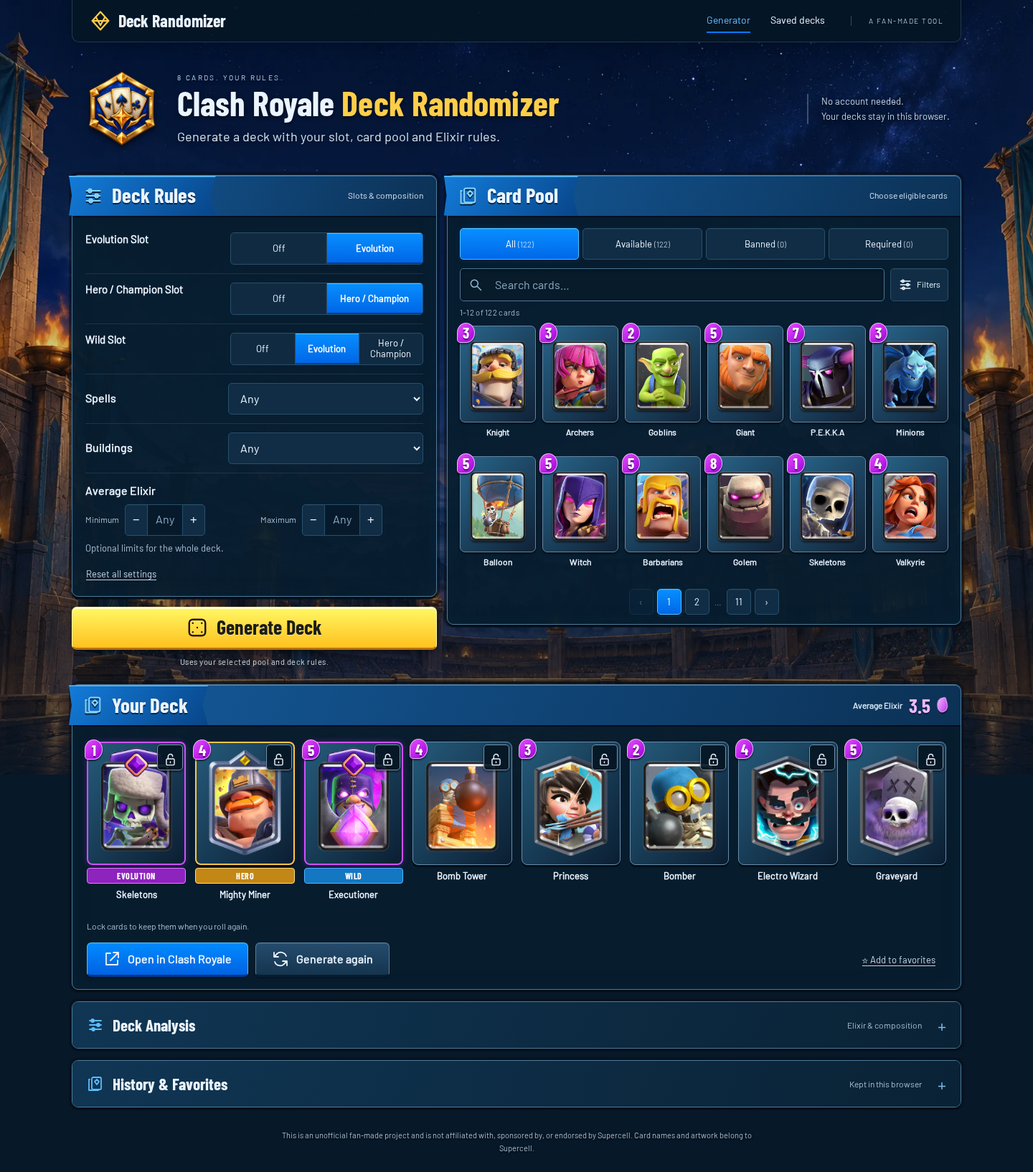
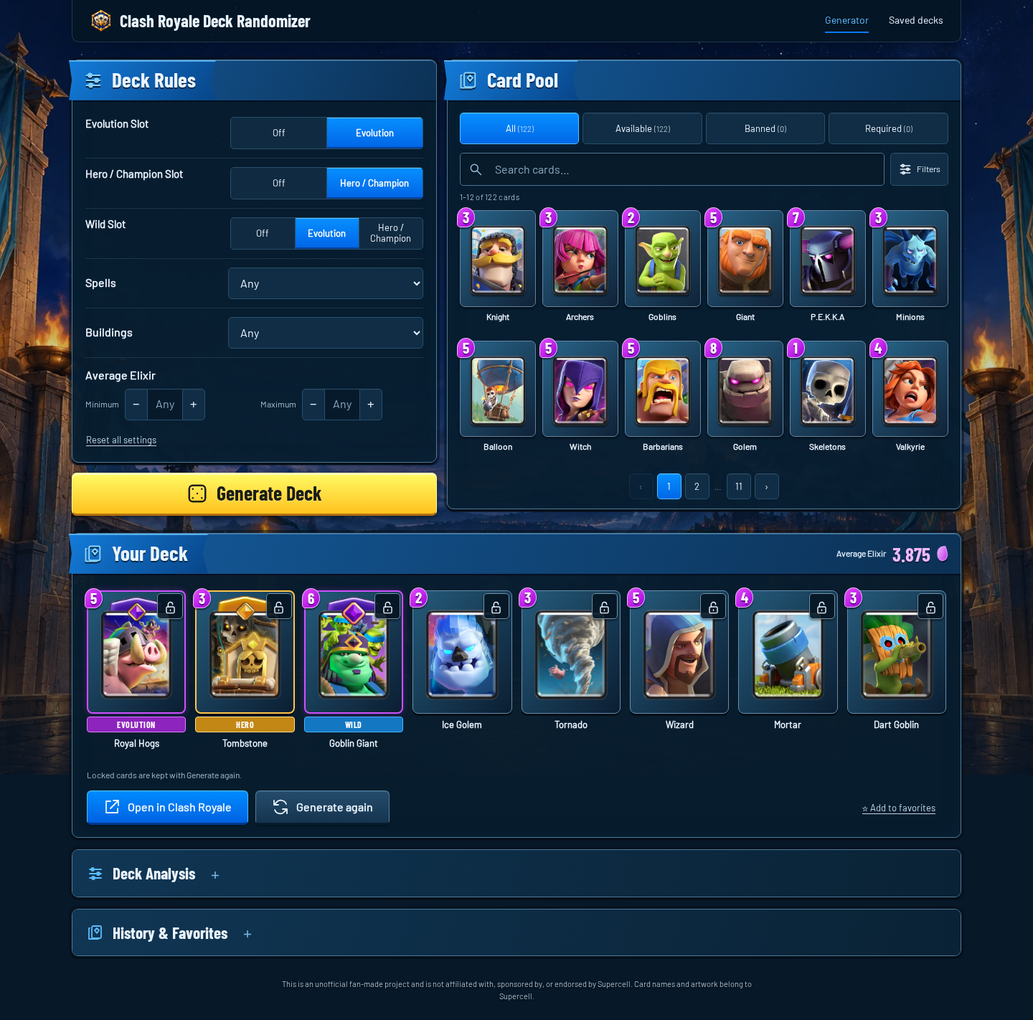
Remove promotional UI copy and compact the app header

diff --git a/index.html b/index.html
@@ -7,17 +7,16 @@
 <link rel="stylesheet" href="./static/arena.css"><script type="module" src="./static/app.js"></script>
 </head><body class="arena-app"><svg xmlns="http://www.w3.org/2000/svg" class="svg-defs" aria-hidden="true"><symbol id="i-diamond" viewBox="0 0 24 24"><path d="m12 2 9 10-9 10L3 12Z"/><path d="m7 8 5 9 5-9M3 12h18"/></symbol><symbol id="i-rules" viewBox="0 0 24 24"><path d="M4 6h16M4 12h16M4 18h16"/><circle cx="8" cy="6" r="2"/><circle cx="16" cy="12" r="2"/><circle cx="9" cy="18" r="2"/></symbol><symbol id="i-cards" viewBox="0 0 24 24"><rect x="7" y="3" width="13" height="17" rx="2"/><path d="M4 6H3v15h13M11 9l3-3 3 3-3 4Z"/></symbol><symbol id="i-search" viewBox="0 0 24 24"><circle cx="10" cy="10" r="6"/><path d="m15 15 6 6"/></symbol><symbol id="i-dice" viewBox="0 0 24 24"><rect x="3" y="3" width="18" height="18" rx="4"/><path d="M7 7h.01M17 7h.01M12 12h.01M7 17h.01M17 17h.01"/></symbol><symbol id="i-open" viewBox="0 0 24 24"><path d="M14 3h7v7M21 3l-11 11M10 4H4v16h16v-6"/></symbol><symbol id="i-refresh" viewBox="0 0 24 24"><path d="M20 8a8 8 0 0 0-14-2L3 9m0-6v6h6m-5 7a8 8 0 0 0 14 2l3-3m0 6v-6h-6"/></symbol><symbol id="i-lock" viewBox="0 0 24 24"><rect x="5" y="10" width="14" height="11" rx="2"/><path d="M8 10V6a4 4 0 0 1 8 0v4m-4 5v2"/></symbol><symbol id="i-unlock" viewBox="0 0 24 24"><rect x="5" y="10" width="14" height="11" rx="2"/><path d="M8 10V6a4 4 0 0 1 8 0m-4 9v2"/></symbol><symbol id="i-chevron" viewBox="0 0 24 24"><path d="m8 4 8 8-8 8"/></symbol></svg>
 <a class="skip-link" href="#generator">Skip to generator</a>
-<nav class="topbar" aria-label="Main navigation"><a class="brand" href="#generator"><svg class="icon" aria-hidden="true"><use href="#i-diamond"></use></svg><span>Deck Randomizer</span></a><div class="nav-links"><a href="#generator" aria-current="page">Generator</a><a href="#saved-decks">Saved decks</a></div><span class="fan-label">A FAN-MADE TOOL</span></nav>
+<nav class="topbar" aria-label="Main navigation"><a class="brand" href="#generator"><img src="./static/assets/emblem.png" alt="" width="32" height="32"><h1>Clash Royale Deck Randomizer</h1></a><div class="nav-links"><a href="#generator" aria-current="page">Generator</a><a href="#saved-decks">Saved decks</a></div></nav>
 <main class="container">
-<header class="hero"><img class="hero-emblem" src="./static/assets/emblem.png" alt="" width="112" height="112"><div><p class="eyebrow">8 CARDS. YOUR RULES.</p><h1>Clash Royale<br> <span>Deck Randomizer</span></h1><p class="hero-copy">Generate a deck with your slot, card pool and Elixir rules.</p></div><p class="hero-note">No account needed.<br>Your decks stay in this browser.</p></header>
 <form class="generator-layout" id="generator" data-generator-form>
-<section class="panel rules-panel" aria-labelledby="rules-heading"><div class="panel-heading"><h2 id="rules-heading"><svg class="icon" aria-hidden="true"><use href="#i-rules"></use></svg>Deck Rules</h2><span>Slots &amp; composition</span></div><div class="rules-body"><fieldset class="rule-row"><legend>Evolution Slot</legend><div class="segmented-options"><label class="segment-option"><input type="radio" name="evolution_slot_enabled" value="off"><span>Off</span></label><label class="segment-option"><input type="radio" name="evolution_slot_enabled" value="on" checked><span>Evolution</span></label></div></fieldset><fieldset class="rule-row"><legend>Hero / Champion Slot</legend><div class="segmented-options"><label class="segment-option"><input type="radio" name="hero_slot_enabled" value="off"><span>Off</span></label><label class="segment-option"><input type="radio" name="hero_slot_enabled" value="on" checked><span>Hero / Champion</span></label></div></fieldset><fieldset class="rule-row"><legend>Wild Slot</legend><div class="segmented-options"><label class="segment-option"><input type="radio" name="wild_slot_mode" value="off"><span>Off</span></label><label class="segment-option"><input type="radio" name="wild_slot_mode" value="evolution" checked><span>Evolution</span></label><label class="segment-option"><input type="radio" name="wild_slot_mode" value="hero_champion"><span>Hero / Champion</span></label></div></fieldset><div class="rule-row"><label for="spell_count">Spells</label><select id="spell_count" name="spell_count" data-count-select><option value="any">Any</option></select></div><div class="rule-row"><label for="building_count">Buildings</label><select id="building_count" name="building_count" data-count-select><option value="any">Any</option></select></div><div class="elixir-rule"><h3>Average Elixir</h3><div class="elixir-inputs"><div class="elixir-field"><label for="min_average_elixir">Minimum</label><div class="stepper"><button type="button" data-step="-1" data-for="min_average_elixir" aria-label="Decrease minimum average Elixir">−</button><input id="min_average_elixir" name="min_average_elixir" type="number" min="0.1" step="0.1" placeholder="Any" aria-label="Deck average elixir — minimum"><button type="button" data-step="1" data-for="min_average_elixir" aria-label="Increase minimum average Elixir">+</button></div></div><div class="elixir-field"><label for="max_average_elixir">Maximum</label><div class="stepper"><button type="button" data-step="-1" data-for="max_average_elixir" aria-label="Decrease maximum average Elixir">−</button><input id="max_average_elixir" name="max_average_elixir" type="number" min="0.1" step="0.1" placeholder="Any" aria-label="Deck average elixir — maximum"><button type="button" data-step="1" data-for="max_average_elixir" aria-label="Increase maximum average Elixir">+</button></div></div></div><p class="muted">Optional limits for the whole deck.</p></div><button type="button" class="text-button reset-button" data-reset-settings>Reset all settings</button></div></section>
-<section class="panel pool-panel" aria-labelledby="card-pool-heading" data-card-pool data-context="all" data-available-mode="all"><div class="panel-heading"><h2 id="card-pool-heading"><svg class="icon" aria-hidden="true"><use href="#i-cards"></use></svg>Card Pool</h2><span>Choose eligible cards</span></div><div class="pool-body">
+<section class="panel rules-panel" aria-labelledby="rules-heading"><div class="panel-heading"><h2 id="rules-heading"><svg class="icon" aria-hidden="true"><use href="#i-rules"></use></svg>Deck Rules</h2></div><div class="rules-body"><fieldset class="rule-row"><legend>Evolution Slot</legend><div class="segmented-options"><label class="segment-option"><input type="radio" name="evolution_slot_enabled" value="off"><span>Off</span></label><label class="segment-option"><input type="radio" name="evolution_slot_enabled" value="on" checked><span>Evolution</span></label></div></fieldset><fieldset class="rule-row"><legend>Hero / Champion Slot</legend><div class="segmented-options"><label class="segment-option"><input type="radio" name="hero_slot_enabled" value="off"><span>Off</span></label><label class="segment-option"><input type="radio" name="hero_slot_enabled" value="on" checked><span>Hero / Champion</span></label></div></fieldset><fieldset class="rule-row"><legend>Wild Slot</legend><div class="segmented-options"><label class="segment-option"><input type="radio" name="wild_slot_mode" value="off"><span>Off</span></label><label class="segment-option"><input type="radio" name="wild_slot_mode" value="evolution" checked><span>Evolution</span></label><label class="segment-option"><input type="radio" name="wild_slot_mode" value="hero_champion"><span>Hero / Champion</span></label></div></fieldset><div class="rule-row"><label for="spell_count">Spells</label><select id="spell_count" name="spell_count" data-count-select><option value="any">Any</option></select></div><div class="rule-row"><label for="building_count">Buildings</label><select id="building_count" name="building_count" data-count-select><option value="any">Any</option></select></div><div class="elixir-rule"><h3>Average Elixir</h3><div class="elixir-inputs"><div class="elixir-field"><label for="min_average_elixir">Minimum</label><div class="stepper"><button type="button" data-step="-1" data-for="min_average_elixir" aria-label="Decrease minimum average Elixir">−</button><input id="min_average_elixir" name="min_average_elixir" type="number" min="0.1" step="0.1" placeholder="Any" aria-label="Deck average elixir — minimum"><button type="button" data-step="1" data-for="min_average_elixir" aria-label="Increase minimum average Elixir">+</button></div></div><div class="elixir-field"><label for="max_average_elixir">Maximum</label><div class="stepper"><button type="button" data-step="-1" data-for="max_average_elixir" aria-label="Decrease maximum average Elixir">−</button><input id="max_average_elixir" name="max_average_elixir" type="number" min="0.1" step="0.1" placeholder="Any" aria-label="Deck average elixir — maximum"><button type="button" data-step="1" data-for="max_average_elixir" aria-label="Increase maximum average Elixir">+</button></div></div></div></div><button type="button" class="text-button reset-button" data-reset-settings>Reset all settings</button></div></section>
+<section class="panel pool-panel" aria-labelledby="card-pool-heading" data-card-pool data-context="all" data-available-mode="all"><div class="panel-heading"><h2 id="card-pool-heading"><svg class="icon" aria-hidden="true"><use href="#i-cards"></use></svg>Card Pool</h2></div><div class="pool-body">
 <div class="picker-contexts" role="group" aria-label="Card selection list"><button type="button" class="is-active" data-picker-context="all" aria-pressed="true">All <span data-catalog-count>…</span></button><button type="button" data-picker-context="available" aria-pressed="false">Available <span data-available-label>…</span></button><button type="button" data-picker-context="banned" aria-pressed="false">Banned <span data-selected-count="banned">0</span></button><button type="button" data-picker-context="required" aria-pressed="false">Required <span data-selected-count="required">0</span></button></div>
 <div class="pool-toolbar"><div class="picker-search-field"><svg class="icon" aria-hidden="true"><use href="#i-search"></use></svg><label for="card-search" class="visually-hidden">Search cards</label><input id="card-search" type="search" placeholder="Search cards…" autocomplete="off" data-card-search></div><button class="filter-button" type="button" aria-label="Filters" data-toggle-filters aria-expanded="false" aria-controls="card-filters"><svg class="icon" aria-hidden="true"><use href="#i-rules"></use></svg><span>Filters</span><span class="filter-dot" data-filter-dot hidden></span></button></div>
 <div id="card-filters" class="filter-panel" hidden>                    <section class="constraint-group" aria-labelledby="card-filters-heading" data-card-filters>
                         <div class="section-heading"><h2 id="card-filters-heading">Card Filters</h2><button type="button" class="text-button" data-clear-filters>Clear filters</button></div>
-                        <p class="constraint-help">Narrow the available card pool. Selected filters work together.</p>
+
                         <fieldset class="filter-fieldset">
                             <legend>Rarity <span>(leave empty for all)</span></legend>
                             <div class="filter-options">
@@ -37,20 +36,20 @@
                             <label><input type="checkbox" name="filter_hero_only"> Hero cards only</label>
                             <label><input type="checkbox" name="filter_exclude_champions"> Exclude Champions</label>
                         </div>
-                        <p class="filter-result"><strong data-filter-count>All</strong> cards match these filters.</p>
+                        <p class="filter-result">Matching cards: <strong data-filter-count>All</strong></p>
                     </section>
 </div>
-<div class="pool-editing" data-pool-editing hidden><p class="picker-context-help" data-picker-context-help></p><fieldset class="available-mode"><legend class="visually-hidden">Available cards</legend><div class="segmented-options"><label class="segment-option"><input type="radio" name="available_mode" value="all" checked><span>All cards</span></label><label class="segment-option"><input type="radio" name="available_mode" value="custom"><span>Custom selection</span></label></div></fieldset><p class="available-all-message" data-available-all-message>All cards are available. Choose Custom selection to edit.</p><div class="available-actions" data-available-actions><button type="button" data-select-all-available>Select all</button><button type="button" data-clear-available>Clear</button></div>
+<div class="pool-editing" data-pool-editing hidden><fieldset class="available-mode"><legend class="visually-hidden">Available cards</legend><div class="segmented-options"><label class="segment-option"><input type="radio" name="available_mode" value="all" checked><span>All cards</span></label><label class="segment-option"><input type="radio" name="available_mode" value="custom"><span>Custom selection</span></label></div></fieldset><p class="available-all-message" data-available-all-message>Choose Custom selection to edit cards.</p><div class="available-actions" data-available-actions><button type="button" data-select-all-available>Select all</button><button type="button" data-clear-available>Clear</button></div>
 <div class="selected-card-groups"><div data-selected-pool="available" hidden><div class="selected-chips" data-selected-chips="available"></div></div><div data-selected-pool="banned" hidden><div class="selected-chips" data-selected-chips="banned"></div></div><div data-selected-pool="required" hidden><div class="selected-chips" data-selected-chips="required"></div></div></div></div>
-<div class="pool-status" data-pool-status role="status">Loading the card catalog…</div><div class="card-picker-grid" data-card-picker aria-label="Card catalog"></div><p class="pool-empty" data-pool-empty hidden>No cards match that search. Try another name.</p><nav class="pagination" data-pagination aria-label="Card pages"></nav>
+<div class="pool-status" data-pool-status role="status">Loading cards…</div><div class="card-picker-grid" data-card-picker aria-label="Card catalog"></div><p class="pool-empty" data-pool-empty hidden>No matching cards.</p><nav class="pagination" data-pagination aria-label="Card pages"></nav>
 </div></section>
-<div class="generate-area"><button type="submit" class="generate-button" disabled><svg class="icon" aria-hidden="true"><use href="#i-dice"></use></svg>Generate Deck</button><p class="generate-caption">Uses your selected pool and deck rules.</p></div>
+<div class="generate-area"><button type="submit" class="generate-button" disabled><svg class="icon" aria-hidden="true"><use href="#i-dice"></use></svg>Generate Deck</button></div>
 <p class="error-message" role="alert" data-error hidden></p>
 </form>
-<section class="panel deck-section" data-result aria-labelledby="deck-heading"><div class="panel-heading"><h2 id="deck-heading"><svg class="icon" aria-hidden="true"><use href="#i-cards"></use></svg>Your Deck</h2><span class="deck-average">Average Elixir <strong data-average>—</strong><span class="elixir-drop" aria-hidden="true"></span></span></div><div class="deck-body"><p class="muted" data-deck-empty>Your next deck is waiting. Set your rules and roll the dice.</p><div class="deck" data-deck><div class="empty-card" aria-label="Empty slot 1"><svg class="icon" aria-hidden="true"><use href="#i-diamond"></use></svg><span>EVOLUTION</span></div><div class="empty-card" aria-label="Empty slot 2"><svg class="icon" aria-hidden="true"><use href="#i-diamond"></use></svg><span>HERO</span></div><div class="empty-card" aria-label="Empty slot 3"><svg class="icon" aria-hidden="true"><use href="#i-diamond"></use></svg><span>WILD</span></div><div class="empty-card" aria-label="Empty slot 4"><svg class="icon" aria-hidden="true"><use href="#i-diamond"></use></svg><span>4</span></div><div class="empty-card" aria-label="Empty slot 5"><svg class="icon" aria-hidden="true"><use href="#i-diamond"></use></svg><span>5</span></div><div class="empty-card" aria-label="Empty slot 6"><svg class="icon" aria-hidden="true"><use href="#i-diamond"></use></svg><span>6</span></div><div class="empty-card" aria-label="Empty slot 7"><svg class="icon" aria-hidden="true"><use href="#i-diamond"></use></svg><span>7</span></div><div class="empty-card" aria-label="Empty slot 8"><svg class="icon" aria-hidden="true"><use href="#i-diamond"></use></svg><span>8</span></div></div>
-<p class="lock-help" data-has-deck hidden>Lock cards to keep them when you roll again.</p><p class="wild-form-notice" data-wild-notice hidden></p><div class="result-actions" data-has-deck hidden><a class="open-game-button" data-deck-link><svg class="icon" aria-hidden="true"><use href="#i-open"></use></svg>Open in Clash Royale</a><button type="button" class="secondary-button" data-generate-again><svg class="icon" aria-hidden="true"><use href="#i-refresh"></use></svg>Generate again</button><button type="button" class="text-button" data-favorite-current aria-pressed="false">☆ Add to favorites</button></div></div></section>
-<details class="panel analysis-section" data-analysis hidden><summary><svg class="icon" aria-hidden="true"><use href="#i-rules"></use></svg>Deck Analysis <span>Elixir &amp; composition</span></summary><div class="details-body"><div class="result-summary" aria-label="Deck result summary"><section><h3>Special Slots</h3><dl data-slot-summary></dl></section><section><h3>Deck</h3><dl data-deck-summary></dl></section></div><div class="analysis-panel"><section><h3>Elixir Distribution</h3><div class="elixir-chart" data-elixir-chart></div></section><section><h3>Deck Insights</h3><ul class="deck-insights" data-deck-insights></ul></section></div></div></details>
-<details class="panel saved-section" id="saved-decks" data-saved-section><summary><svg class="icon" aria-hidden="true"><use href="#i-cards"></use></svg>History &amp; Favorites <span>Kept in this browser</span></summary><div class="details-body">            <div class="saved-heading"><div><h3>Your saved decks</h3><p>Your decks are stored only in this browser.</p></div><button type="button" class="text-button" data-clear-history>Clear history</button></div>
+<section class="panel deck-section" data-result aria-labelledby="deck-heading"><div class="panel-heading"><h2 id="deck-heading"><svg class="icon" aria-hidden="true"><use href="#i-cards"></use></svg>Your Deck</h2><span class="deck-average">Average Elixir <strong data-average>—</strong><span class="elixir-drop" aria-hidden="true"></span></span></div><div class="deck-body"><div class="deck" data-deck><div class="empty-card" aria-label="Empty slot 1"><svg class="icon" aria-hidden="true"><use href="#i-diamond"></use></svg><span>EVOLUTION</span></div><div class="empty-card" aria-label="Empty slot 2"><svg class="icon" aria-hidden="true"><use href="#i-diamond"></use></svg><span>HERO</span></div><div class="empty-card" aria-label="Empty slot 3"><svg class="icon" aria-hidden="true"><use href="#i-diamond"></use></svg><span>WILD</span></div><div class="empty-card" aria-label="Empty slot 4"><svg class="icon" aria-hidden="true"><use href="#i-diamond"></use></svg><span>4</span></div><div class="empty-card" aria-label="Empty slot 5"><svg class="icon" aria-hidden="true"><use href="#i-diamond"></use></svg><span>5</span></div><div class="empty-card" aria-label="Empty slot 6"><svg class="icon" aria-hidden="true"><use href="#i-diamond"></use></svg><span>6</span></div><div class="empty-card" aria-label="Empty slot 7"><svg class="icon" aria-hidden="true"><use href="#i-diamond"></use></svg><span>7</span></div><div class="empty-card" aria-label="Empty slot 8"><svg class="icon" aria-hidden="true"><use href="#i-diamond"></use></svg><span>8</span></div></div>
+<p class="lock-help" data-has-deck hidden>Locked cards are kept with Generate again.</p><p class="wild-form-notice" data-wild-notice hidden></p><div class="result-actions" data-has-deck hidden><a class="open-game-button" data-deck-link><svg class="icon" aria-hidden="true"><use href="#i-open"></use></svg>Open in Clash Royale</a><button type="button" class="secondary-button" data-generate-again><svg class="icon" aria-hidden="true"><use href="#i-refresh"></use></svg>Generate again</button><button type="button" class="text-button" data-favorite-current aria-pressed="false">☆ Add to favorites</button></div></div></section>
+<details class="panel analysis-section" data-analysis hidden><summary><svg class="icon" aria-hidden="true"><use href="#i-rules"></use></svg>Deck Analysis</summary><div class="details-body"><div class="result-summary" aria-label="Deck result summary"><section><h3>Special Slots</h3><dl data-slot-summary></dl></section><section><h3>Deck</h3><dl data-deck-summary></dl></section></div><div class="analysis-panel"><section><h3>Elixir Distribution</h3><div class="elixir-chart" data-elixir-chart></div></section><section><h3>Deck Insights</h3><ul class="deck-insights" data-deck-insights></ul></section></div></div></details>
+<details class="panel saved-section" id="saved-decks" data-saved-section><summary><svg class="icon" aria-hidden="true"><use href="#i-cards"></use></svg>History &amp; Favorites </summary><div class="details-body">            <div class="saved-heading"><div><p>Your decks are stored only in this browser.</p></div><button type="button" class="text-button" data-clear-history>Clear history</button></div>
             <div class="data-actions" aria-label="Deck data tools">
                 <button type="button" class="secondary-button" data-export-decks>Export data</button>
                 <button type="button" class="secondary-button" data-import-decks>Import data</button>
@@ -59,7 +58,7 @@
             </div>
             <p class="data-status" data-data-status aria-live="polite"></p>
             <div class="saved-tabs" role="group" aria-label="Saved deck filter"><button type="button" class="is-active" data-saved-filter="all" aria-pressed="true">Recent</button><button type="button" data-saved-filter="favorites" aria-pressed="false">Favorites</button></div>
-            <p class="saved-empty" data-saved-empty hidden>No decks here yet.</p>
+            <p class="saved-empty" data-saved-empty hidden>No saved decks.</p>
             <div class="saved-decks" data-saved-decks></div>
 </div></details>
 <footer class="footer"><p>This is an unofficial fan-made project and is not affiliated with, sponsored by, or endorsed by Supercell. Card names and artwork belong to Supercell.</p></footer>

diff --git a/static/arena.css b/static/arena.css
@@ -31,16 +31,7 @@
  & .nav-links{display:flex;gap:28px;margin-left:auto;font-size:14px}
  & .nav-links a{padding:6px 0;border-bottom:2px solid transparent}
  & .nav-links a:hover,& .nav-links a[aria-current]{color:#62bdff;border-color:var(--blue)}
- & .fan-label{font-size:10px;letter-spacing:1.5px;color:#a6bfd4;border-left:1px solid var(--line);padding-left:24px}
- & .container{max-width:1280px;margin:auto;padding:0 20px}
- & .hero{display:flex;align-items:center;gap:23px;padding:34px 16px 32px;min-height:185px;text-shadow:0 2px 5px #0009}
- & .hero-emblem{width:108px;height:108px;object-fit:contain;filter:drop-shadow(0 5px 4px #0008)}
- & .eyebrow{font-size:10px;letter-spacing:2.4px;color:#b4d3ee;margin-bottom:4px}
- & h1{font-size:48px;line-height:1.02;letter-spacing:.1px}
- & h1 br{display:none}
- & h1 span{color:var(--gold)}
- & .hero-copy{font-size:18px;margin-top:10px;color:#d0e3f2}
- & .hero-note{margin-left:auto;color:#bed1df;font-size:13px;line-height:1.6;border-left:2px solid #a8c5d655;padding-left:18px}
+ & .container{max-width:1280px;margin:auto;padding:24px 20px 0}
  & .generator-layout{display:grid;grid-template-columns:minmax(0,.83fr) minmax(0,1.17fr);gap:0 14px;scroll-margin-top:16px;align-items:start}
  & .panel{min-width:0;border:1px solid #4f7a99;border-radius:9px;background:var(--panel);box-shadow:0 3px 0 #020e18,0 0 0 4px #080f1888,inset 0 0 25px #09273c77;overflow:visible}
  & .panel-heading{height:58px;display:flex;align-items:center;justify-content:space-between;gap:8px;border-radius:8px 8px 0 0;background:linear-gradient(110deg,#145a9b,#0c3155);border-bottom:2px solid #020e20;box-shadow:inset 0 1px #75b9ee77}
@@ -105,7 +96,6 @@
  & .constraint-grid-two{display:grid;grid-template-columns:1fr 1fr;gap:12px;margin-bottom:12px}
  & .constraint-field{display:flex;flex-direction:column;gap:6px;font-size:13px;min-width:0}
  & .pool-editing{border-bottom:1px solid var(--line);padding-bottom:10px;margin-bottom:10px}
- & .picker-context-help{font-size:13px;color:var(--muted);padding:5px 0 8px}
  & .available-mode{border:0;padding:0;margin:0 0 6px;max-width:300px}
  & .available-all-message{font-size:12px;color:var(--muted);margin-top:8px}
  & .available-actions{display:flex;gap:6px}
@@ -134,7 +124,6 @@
  & .generate-area{grid-column:1;grid-row:2;padding:14px 0 2px}
  & .generate-button{width:100%;display:flex;justify-content:center;align-items:center;gap:12px;min-height:60px;border:1px solid #ffe58c;border-bottom:3px solid #a0630c;background:linear-gradient(#ffda58,#efa91b);color:#161a16;font-size:28px;border-radius:7px;box-shadow:inset 0 2px #fff0b0,0 3px 7px #0006;text-shadow:0 1px #fff4}
  & .generate-button .icon{width:30px;height:30px;stroke-width:2}
- & .generate-caption{text-align:center;font-size:11px;color:#d1dce5;margin:9px 0 0;letter-spacing:.5px}
  & .error-message{grid-column:1/-1;background:#481e2b;border:1px solid #e28a98;color:#ffe4e8;padding:14px;border-radius:6px;margin-top:14px}
  & .deck-section{margin-top:22px}
  & .deck-average{display:flex;align-items:center;gap:9px;font-weight:bold;white-space:nowrap}
@@ -207,24 +196,16 @@
  & .saved-actions{display:flex;gap:4px}
  & .saved-actions button{padding:5px 9px;font-size:13px;min-height:36px}
  & .footer{text-align:center;max-width:680px;margin:30px auto 0;padding-bottom:24px;text-shadow:0 1px 3px #000}
- & .footer>span{font-size:10px;letter-spacing:2px;color:#c6d5de}
  & .footer p{font-size:11px;color:#a8becf;margin-top:8px;line-height:1.6}
  @media(min-width:1024px) and (max-width:1200px){
-  & h1{font-size:40px}
-  & .hero-note{display:none}
   & .panel-heading>span{font-size:10px;margin-right:10px}
   & .panel-heading h2{font-size:26px;padding-left:14px;padding-right:20px}
   & .elixir-field{display:block}
   & .elixir-field>label{display:block;margin-bottom:4px}
  }
  @media(max-width:1023px){
-  & .container{max-width:800px;padding:0 18px}
+  & .container{max-width:800px;padding:24px 18px 0}
   & .topbar{max-width:764px;padding:12px 18px}
-  & .fan-label,& .hero-note{display:none}
-  & .hero{padding:28px 4px;gap:18px}
-  & h1{font-size:44px}
-  & h1 br{display:block}
-  & .hero-emblem{width:100px;height:100px}
   & .generator-layout{display:flex;flex-direction:column;gap:16px}
   & .generator-layout>section,& .generate-area,& .error-message{width:100%}
   & .pool-panel{order:2}
@@ -246,11 +227,6 @@
   & .nav-links{font-size:12px;gap:12px}
   & .nav-links a:first-child{display:none}
   & .container{padding:0 12px}
-  & .hero{gap:10px;padding:25px 0 26px}
-  & .hero-emblem{width:75px;height:88px}
-  & .eyebrow{font-size:8px;letter-spacing:1.2px}
-  & h1{font-size:34px}
-  & .hero-copy{font-size:13px;line-height:1.4;margin-top:8px}
   & .panel-heading{height:52px}
   & .panel-heading h2{font-size:26px;padding:0 24px 0 15px;gap:9px}
   & .panel-heading>span{font-size:10px;margin-right:12px}
@@ -312,3 +288,12 @@
 .arena-app .picker-card-control:has(input:focus-visible){outline:3px solid var(--gold);outline-offset:4px}
 .arena-app .picker-card-control input{position:absolute;inset:0;width:100%;height:100%;margin:0;opacity:0;cursor:inherit}
 @media(max-width:540px){.arena-app .lock-button::after{content:'';position:absolute;inset:-4px}}
+
+.arena-app .brand h1{font:inherit;line-height:1.15}
+.arena-app .brand img{width:32px;height:32px;object-fit:contain}
+@media(max-width:540px){
+ .arena-app .brand{white-space:normal;min-width:0;font-size:20px}
+ .arena-app .brand img{width:30px;height:30px;flex-shrink:0}
+ .arena-app .nav-links{flex-shrink:0}
+ .arena-app .container{padding-top:18px}
+}

diff --git a/static/app.js b/static/app.js
@@ -8,7 +8,6 @@ const form = document.querySelector("[data-generator-form]");
 const cardPool = document.querySelector("[data-card-pool]");
 const picker = document.querySelector("[data-card-picker]");
 const contexts = ["available", "banned", "required"];
-const descriptions = {available: "Cards the randomizer may use.", banned: "Cards that must not appear.", required: "Cards that must appear."};
 let activeContext = "all";
 let pickerPage = 1;
 const PAGE_SIZE = 12;
@@ -91,7 +90,6 @@ function setContext(context) {
         card.classList.toggle("is-selected", selected);
         card.querySelector(".selection-mark").hidden = !selected;
     });
-    cardPool.querySelector("[data-picker-context-help]").textContent = descriptions[context] || "Browse the full card catalog.";
     updatePickerPage();
 }
 
@@ -151,7 +149,6 @@ function renderResult(slots, {save = true, scroll = true} = {}) {
     document.querySelector("[data-slot-summary]").innerHTML = slots.slice(0, 3).map(slot => summaryItem(roleLabels[slot.role], slot.activeForm === ActiveForm.NORMAL ? "Off" : slot.activeForm.replace("_", " ").replace(/^./, c => c.toUpperCase()))).join("");
     const plainCards = slots.map(slot => slot.card), average = averageElixir(plainCards);
     document.querySelector("[data-average]").textContent = average == null ? "—" : Number(average.toFixed(3));
-    document.querySelector("[data-deck-empty]").hidden = true;
     document.querySelectorAll("[data-has-deck]").forEach(node => { node.hidden = false; });
     document.querySelector("[data-analysis]").hidden = false;
     document.querySelector("[data-deck-summary]").innerHTML = [["Evolutions", slots.filter(slot => slot.activeForm === ActiveForm.EVOLUTION).length], ["Heroes / Champions", slots.filter(slot => [ActiveForm.HERO, ActiveForm.CHAMPION].includes(slot.activeForm)).length], ["Spells", plainCards.filter(card => cardType(card) === "spell").length], ["Buildings", plainCards.filter(card => cardType(card) === "building").length], ["Average Elixir", average == null ? "—" : Number(average.toFixed(3))]].map(([label, value]) => summaryItem(label, value)).join("");

diff --git a/README.md b/README.md
@@ -106,6 +106,11 @@ All asset paths are relative, so the application works below the
 
 ## Browser interface
 
+UI copy is functional: keep the header to the app name and navigation. Do not
+add slogans, hero descriptions, promotional claims, feature showcases, or
+redundant helper text. Explain mechanics only when needed; preserve errors,
+accessibility labels, and the fan-content notice.
+
 The arena interface uses an original background and emblem, locally hosted Barlow
 fonts, and CSS/SVG controls. It preserves the existing generator and local deck
 storage format. The retained Flask template continues to use `static/style.css`;
